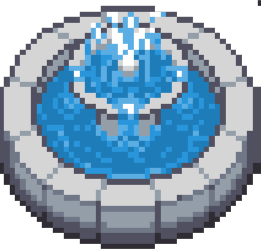
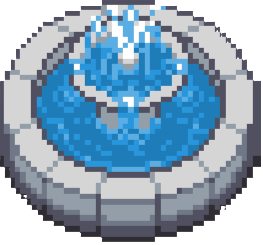
怪物換皮、噴泉新功能

diff --git a/Scene/PlayScene.cpp b/Scene/PlayScene.cpp
@@ -94,8 +94,9 @@ void PlayScene::Initialize() {
     homeset=0;
     storeset=0;
     bossroomset=0;
+    fountainset=0;
     buying=false;
-
+    shit=false;
 
 
     /*if(scenenum==1){
@@ -238,10 +239,25 @@ void PlayScene::Update(float deltaTime) {
         if(character->Position.x>bossroomposj*BlockSize-40 && character->Position.x<(bossroomposj+4)*BlockSize+40
             &&character->Position.y>bossroomposi*BlockSize-40 && character->Position.y<(bossroomposi+4)*BlockSize+40) gobossroomkey=1;
     }
-    if(gobossroomkey==1){
+    if(gobossroomkey==1 && scenenum==1){
         UIBossroom->Text = std::string("Press F to go bossroom");
         if(!(character->Position.x>bossroomposj*BlockSize-40 && character->Position.x<(bossroomposj+4)*BlockSize+40
             &&character->Position.y>bossroomposi*BlockSize-40 && character->Position.y<(bossroomposi+4)*BlockSize+40)) gobossroomkey=0;
+    }
+
+    //go fountain
+    if(fountainkey==0){
+        
+        UIFountain->Text = std::string("");
+        UIShit->Text = std::string("");
+        if(character->Position.x>fountainposj*BlockSize-40 && character->Position.x<(fountainposj+4)*BlockSize+40
+            &&character->Position.y>fountainposi*BlockSize-40 && character->Position.y<(fountainposi+4)*BlockSize+40) fountainkey=1;
+    }
+    if(fountainkey==1 && scenenum==1){
+        UIFountain->Text = std::string("Press F to drink fountain water");
+        UIShit->Text = std::string("Press G to shit in the fountain");
+        if(!(character->Position.x>fountainposj*BlockSize-40 && character->Position.x<(fountainposj+4)*BlockSize+40
+            &&character->Position.y>fountainposi*BlockSize-40 && character->Position.y<(fountainposi+4)*BlockSize+40)) fountainkey=0;
     }
     
     //go store
@@ -250,7 +266,7 @@ void PlayScene::Update(float deltaTime) {
         if(character->Position.x>storeposj*BlockSize-40 && character->Position.x<(storeposj+4)*BlockSize+40
             &&character->Position.y>storeposi*BlockSize-40 && character->Position.y<(storeposi+4)*BlockSize+40) gostorekey=1;
     }
-    if(gostorekey==1){
+    if(gostorekey==1  && scenenum==1){
         UIStore->Text = std::string("Press F to go store");
         if(!(character->Position.x>storeposj*BlockSize-40 && character->Position.x<(storeposj+4)*BlockSize+40
             &&character->Position.y>storeposi*BlockSize-40 && character->Position.y<(storeposi+4)*BlockSize+40)) gostorekey=0;
@@ -283,7 +299,7 @@ void PlayScene::Update(float deltaTime) {
         const float spawnInterval = 1.8; // 每2秒生成一隻敵人，可依需要調整
         static float spawnTimer = 0.0f;
         spawnTimer += deltaTime;
-        if (spawnTimer >= spawnInterval && scenenum!=1) {
+        if (spawnTimer >= spawnInterval && scenenum!=1&& scenenum!=2 ) {
             spawnTimer -= spawnInterval;
             int type = rand() % 6 + 1; // 隨機產生 1~4 的敵人類型
             //const Engine::Point SpawnCoordinate = Engine::Point(SpawnGridPoint.x * BlockSize + BlockSize / 2, SpawnGridPoint.y * BlockSize + BlockSize / 2);
@@ -477,13 +493,25 @@ void PlayScene::OnKeyDown(int keyCode) {
         // gun->isActive = false;
         // sword->isActive = true;
     }
-
                     
     else if (keyCode >= ALLEGRO_KEY_0 && keyCode <= ALLEGRO_KEY_9) {
         // Hotkey for Speed up.
         // SpeedMult = keyCode - ALLEGRO_KEY_0;
     }
-    if((gohomekey||gobossroomkey) && keyCode == ALLEGRO_KEY_F){
+
+    if(fountainkey && keyCode == ALLEGRO_KEY_G){
+        shit=1;
+        TileMapGroup->AddNewObject(new Engine::Image("play/shitfountain.png", fountainposj * BlockSize, fountainposi * BlockSize, 4 * BlockSize, 4 * BlockSize));
+
+    }
+
+    if(fountainkey && keyCode == ALLEGRO_KEY_F){
+        //gain power
+        character->ChangePOWER(100);
+        if(shit)character->ChangeHP(-100);
+    }
+
+    if((gohomekey||(gobossroomkey && scenenum==1)) && keyCode == ALLEGRO_KEY_F){
         char newScene='1';
         if(gohomekey)newScene = (scenenum == 1) ? '0' : '1';
         else if(gobossroomkey) newScene =  '2';
@@ -520,7 +548,7 @@ void PlayScene::OnKeyDown(int keyCode) {
     }*/
 
     //bulid store
-    if(gostorekey && keyCode == ALLEGRO_KEY_F) buying =! buying;
+    if(scenenum==1 && gostorekey && keyCode == ALLEGRO_KEY_F) buying =! buying;
 }
 void PlayScene::Hit(float damage) {
     lives--;
@@ -722,7 +750,12 @@ void PlayScene::ReadHomeMap() {
                 }
             }
             else if (num == 6) {
-                mapState[i][j] = TILE_ROCK;
+                mapState[i][j] = TILE_FOUNTAIN;
+                if (!fountainset) {
+                    fountainposi = i;
+                    fountainposj = j;
+                    fountainset = 1;
+                }
             }else if (num == 8) {
                 mapState[i][j] = TILE_BOSSROOM;
                 if (!bossroomset) {
@@ -751,7 +784,7 @@ void PlayScene::ReadHomeMap() {
                 TileMapGroup->AddNewObject(new Engine::Image("play/stonebridge.png", j * BlockSize, i * BlockSize, BlockSize, BlockSize));
             }if (num == 6) {
                 TileMapGroup->AddNewObject(new Engine::Image("play/grass.png", j * BlockSize, i * BlockSize, BlockSize, BlockSize));
-                TileMapGroup->AddNewObject(new Engine::Image("play/fountain.png", (j-3) * BlockSize, (i-3) * BlockSize, 4*BlockSize, 4*BlockSize));
+                //TileMapGroup->AddNewObject(new Engine::Image("play/fountain.png", (j-3) * BlockSize, (i-3) * BlockSize, 4*BlockSize, 4*BlockSize));
             }if (num == 7) {
                 TileMapGroup->AddNewObject(new Engine::Image("play/floor.png", j * BlockSize, i * BlockSize, BlockSize, BlockSize));
                 TileMapGroup->AddNewObject(new Engine::Image("play/plant.png", j * BlockSize, (i-1) * BlockSize, BlockSize, 2*BlockSize));
@@ -766,13 +799,14 @@ void PlayScene::ReadHomeMap() {
     if (homeset) TileMapGroup->AddNewObject(new Engine::Image("play/home.png", homeposj * BlockSize, homeposi * BlockSize, 4 * BlockSize, 4 * BlockSize));
     if (storeset) TileMapGroup->AddNewObject(new Engine::Image("play/store.png", storeposj * BlockSize, storeposi * BlockSize, 4 * BlockSize, 4 * BlockSize));
     if (bossroomset) TileMapGroup->AddNewObject(new Engine::Image("play/bossroom.png", bossroomposj * BlockSize, bossroomposi * BlockSize, 4.9 * BlockSize, 4 * BlockSize));
+    if (fountainset) TileMapGroup->AddNewObject(new Engine::Image("play/fountain.png", fountainposj * BlockSize, fountainposi * BlockSize, 4 * BlockSize, 4 * BlockSize));
     drawedgebush();
 }
 
 void PlayScene::drawedgebush(){
     for (int layer = 0; layer < 1; layer++) {
         // Vertical edges (left and right)
-        for (int i = -layer; i < MapHeight + layer; i++) {
+        for (int i =   -layer; i < MapHeight + layer; i++) {
             int j = -1 - layer; // Left edge
             TileMapGroup->AddNewObject(new Engine::Image("play/grass.png", j * BlockSize, i * BlockSize, BlockSize, BlockSize));
             TileMapGroup->AddNewObject(new Engine::Image("play/verti_bush.png", j * BlockSize, i * BlockSize, BlockSize, BlockSize));
@@ -802,7 +836,7 @@ void PlayScene::drawedgebush(){
 
 
     // Add five layers of edge forest
-    for (int layer = 1; layer < 2; layer++) {
+    for (int layer = 1; layer < 15; layer++) {
         // Vertical edges (left and right)
         for (int i = -layer; i < MapHeight + layer; i++) {
             int j = -1 - layer; // Left edge
@@ -882,6 +916,7 @@ void PlayScene::ConstructUI() {
 
     UIGroup->AddNewObject(new ColoredRectangle(0, 0, 200, 220, al_map_rgba(255, 255, 255, 70),2.0f, al_map_rgba(255, 255, 255, 1)));
 
+
     UIGroup->AddNewObject(new Engine::Label(std::string("Stage ") + std::to_string(MapId), "pirulen.ttf", 32, 12, 0));
     UIGroup->AddNewObject(SkillWarn = new Engine::Label(std::string("") , "pirulen.ttf", 19, Engine::GameEngine::GetInstance().GetScreenSize().x / 2, Engine::GameEngine::GetInstance().GetScreenSize().y - 17, 255, 10, 10, 220, 0.5f, 0.5f));
 
@@ -890,6 +925,8 @@ void PlayScene::ConstructUI() {
     /*if(gohomekey==1)*/ UIGroup->AddNewObject(UIHome = new Engine::Label(std::string(""), "pirulen.ttf", 24,  600, 600));
     UIGroup->AddNewObject(UIStore = new Engine::Label(std::string(""), "pirulen.ttf", 24,  600, 600));
     UIGroup->AddNewObject(UIBossroom = new Engine::Label(std::string(""), "pirulen.ttf", 24,  600, 600));
+    UIGroup->AddNewObject(UIFountain = new Engine::Label(std::string(""), "pirulen.ttf", 24,  500, 600));
+    UIGroup->AddNewObject(UIShit = new Engine::Label(std::string(""), "pirulen.ttf", 24,  500, 650));
 
     //// new
     UIGroup->AddNewObject(player_exp_l = new Engine::Label(std::string("EXP ") + std::to_string((int)player_exp) + "/" + std::to_string((int)level_req.front()), "pirulen.ttf", 24, 12, 130));

diff --git a/Scene/PlayScene.hpp b/Scene/PlayScene.hpp
@@ -59,11 +59,16 @@ public:
     int bossroomset;
     int gobossroomkey = 0;
 
+    int fountainposi,fountainposj;
+    int fountainset;
+    int fountainkey = 0;
+
     int storeposi,storeposj;
     int storeset;
     int gostorekey = 0;
     bool buying;
 
+    bool shit=0;
 
     bool isBossActive;  // 新增：標誌位，表示 Boss 是否活躍
    // Boss* currentBoss;  // 新增：指向當前活躍的 Boss
@@ -130,7 +135,10 @@ public:
     Engine::Label *UILives;
     Engine::Label *UIHome;
     Engine::Label *UIBossroom;
+    Engine::Label *UIFountain;
+    Engine::Label *UIShit;
     Engine::Label *UIStore;
+    Engine::Image *UItextborad;
     Engine::Image *imgTarget;
     Engine::Sprite *dangerIndicator;
     Turret *preview;
@@ -153,7 +161,6 @@ public:
     void EarnMoney(int money);
     void ReadMap();
     void ReadHomeMap();
-    void ReadBossroomMap();
     void ReadEnemyWave();
     void ConstructUI();
     void UIBtnClicked(int id);

diff --git a/Enemy/GodEnemy.cpp b/Enemy/GodEnemy.cpp
@@ -9,8 +9,8 @@
 const float set_HP = 600;
 
 GodEnemy::GodEnemy(int x, int y)
-    : Enemy("play/enemy-6.png", x, y, 20, 20, set_HP, 250),
-      head("play/enemy-10.png", x, y), 
+    : Enemy("play/monster2.png", x, y, 20, 20, set_HP, 250),
+      head("play/bullet-10.png", x, y), 
       buff_picture("play/gold-circle.png", x, y, buff_radus * 2, buff_radus * 2), targetRotation(0) {
     buff_picture.Visible = false;
     buff_picture.Tint = al_map_rgba(255, 255, 255, 200);

diff --git a/Scene/StageSelectScene.cpp b/Scene/StageSelectScene.cpp
@@ -78,7 +78,7 @@ void StageSelectScene::PlayOnClick(int stage) {
     //
     std::ofstream fout("../Resource/whichscene.txt");
     if (fout.is_open()) {
-        fout << "0 66666 14000 110 12000 200 1\n1 1 1 1 1 1\n1 1 0 0 0 0"; // 設為 homemap.txt
+        fout << "1 66666 14000 110 12000 200 1\n1 1 1 1 1 1\n1 1 0 0 0 0"; // 設為 homemap.txt
         fout.close();
     } else {
         std::cerr << "Failed to open whichscene.txt for writing" << std::endl;

diff --git a/Enemy/BombThrowerEnemy.cpp b/Enemy/BombThrowerEnemy.cpp
@@ -5,7 +5,7 @@
 #include "Engine/Point.hpp"
 
 BombThrowerEnemy::BombThrowerEnemy(float x, float y) 
-    : Enemy("play/enemy-5.png", x, y, 20.0f, 50.0f, 100.0f, 10), throwInterval(20.0f), throwTimer(0.0f) {
+    : Enemy("play/monster1.png", x, y, 20.0f, 50.0f, 100.0f, 10), throwInterval(20.0f), throwTimer(0.0f) {
     // 初始化敵人屬性，圖片路徑、位置、半徑、速度、血量、傷害
     dmg = 40.0f;
 }

diff --git a/Enemy/SoldierEnemy.cpp b/Enemy/SoldierEnemy.cpp
@@ -3,6 +3,6 @@
 #include "SoldierEnemy.hpp"
 
 // OK TODO HACKATHON-3 (1/3): You can imitate the 2 files: 'SoldierEnemy.hpp', 'SoldierEnemy.cpp' to create a new enemy.
-SoldierEnemy::SoldierEnemy(int x, int y) : Enemy("play/newenemy-1.png", x, y, 10, 80, 5, 5) {
+SoldierEnemy::SoldierEnemy(int x, int y) : Enemy("play/monster4.png", x, y, 10, 80, 5, 5) {
     dmg = 6;
 }

diff --git a/Enemy/PlaneEnemy.cpp b/Enemy/PlaneEnemy.cpp
@@ -3,6 +3,6 @@
 #include "PlaneEnemy.hpp"
 
 // OK TODO HACKATHON-3 (1/3): You can imitate the 2 files: 'SoldierEnemy.hpp', 'SoldierEnemy.cpp' to create a new enemy.
-PlaneEnemy::PlaneEnemy(int x, int y) : Enemy("play/enemy-2.png", x, y, 10, 90, 50, 100) {
+PlaneEnemy::PlaneEnemy(int x, int y) : Enemy("play/cockroach.png", x, y, 10, 240, 50, 100) {
     dmg = 5;
 }

diff --git a/Enemy/ShootEnemy.cpp b/Enemy/ShootEnemy.cpp
@@ -34,7 +34,7 @@
 #include "Scene/PlayScene.hpp"
 #include <cmath> // 為了使用 atan2
 
-ShootEnemy::ShootEnemy(int x, int y) : Enemy("play/enemy-7.png", x, y, 10, 80, 5, 5), shootTimer(0), shootInterval(2.0f) {
+ShootEnemy::ShootEnemy(int x, int y) : Enemy("play/monster5.png", x, y, 10, 80, 5, 5), shootTimer(0), shootInterval(2.0f) {
     dmg = 6;
 }
 
